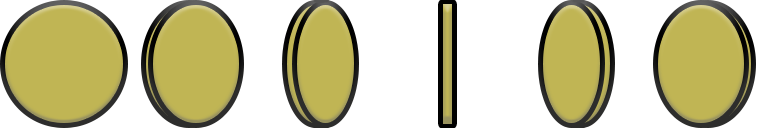
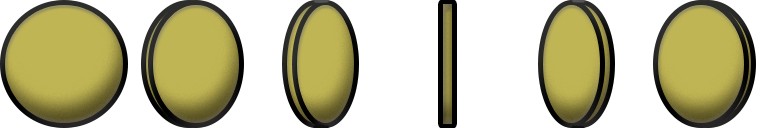
change fps, clean code, mod coins texture

diff --git a/Source/Ball.cpp b/Source/Ball.cpp
@@ -55,7 +55,6 @@ Ball::Ball(std::string name, std::string tag,Application* _app, iPoint initPos)
     pBody->debugException = true;
 
     //  Create instance of the Score System
-
     scoreInstance = ScoreSystem::Instance(_app);
 }
 
@@ -66,32 +65,6 @@ void Ball::Start()
 
 void Ball::PreUpdate()
 {
-    /*b2Vec2 velocity = pBody->body->GetLinearVelocity();
-    int maxVelocity = 20;
-
-    if (velocity.x > maxVelocity)
-    {
-        velocity.x = maxVelocity;
-    }
-    if (velocity.y > maxVelocity)
-    {
-        velocity.y = maxVelocity;
-    }
-    if (velocity.x < -maxVelocity)
-    {
-        velocity.x = -maxVelocity;
-    }
-    if (velocity.y < -maxVelocity)
-    {
-        velocity.y = -maxVelocity;
-    }
-    if (abs(velocity.x) > maxVelocity || abs(velocity.y) > maxVelocity)
-    {
-        printf("Velocidad por encima de limite !!!!");
-    }
-
-    pBody->body->SetLinearVelocity(velocity);
-    */
 }
 
 void Ball::Update()
@@ -99,13 +72,15 @@ void Ball::Update()
     if (_app->input->GetKey(SDL_SCANCODE_SPACE) == KEY_REPEAT)
     {
         impulseForce+= impulseForce >= 1200 ? 0 : 20;
-        //printf("%d", impulseForce);
+       
     }
     else if (_app->input->GetKey(SDL_SCANCODE_SPACE) == KEY_UP)
     {
         if (initialSpring && abs(pBody->body->GetLinearVelocity().y) <= 0.2f)
         {
+            printf("%d\n", impulseForce);
             pBody->body->ApplyForceToCenter(b2Vec2(0, impulseForce), true);
+            //pBody->body->SetLinearVelocity(b2Vec2(0, impulseForce));
             initialSpring = false;
         }
         impulseForce = 200;

diff --git a/Source/Application.h b/Source/Application.h
@@ -15,7 +15,7 @@
 
 #include "Timer.h"
 
-#define FPS 90
+#define FPS 75
 
 class Application
 {
